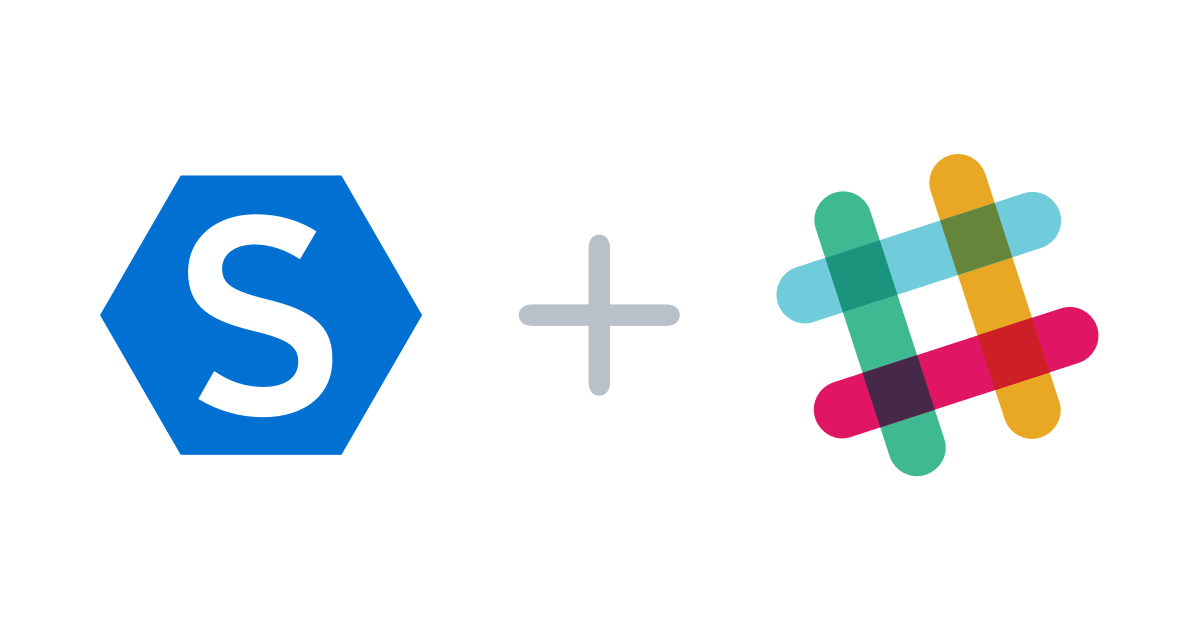
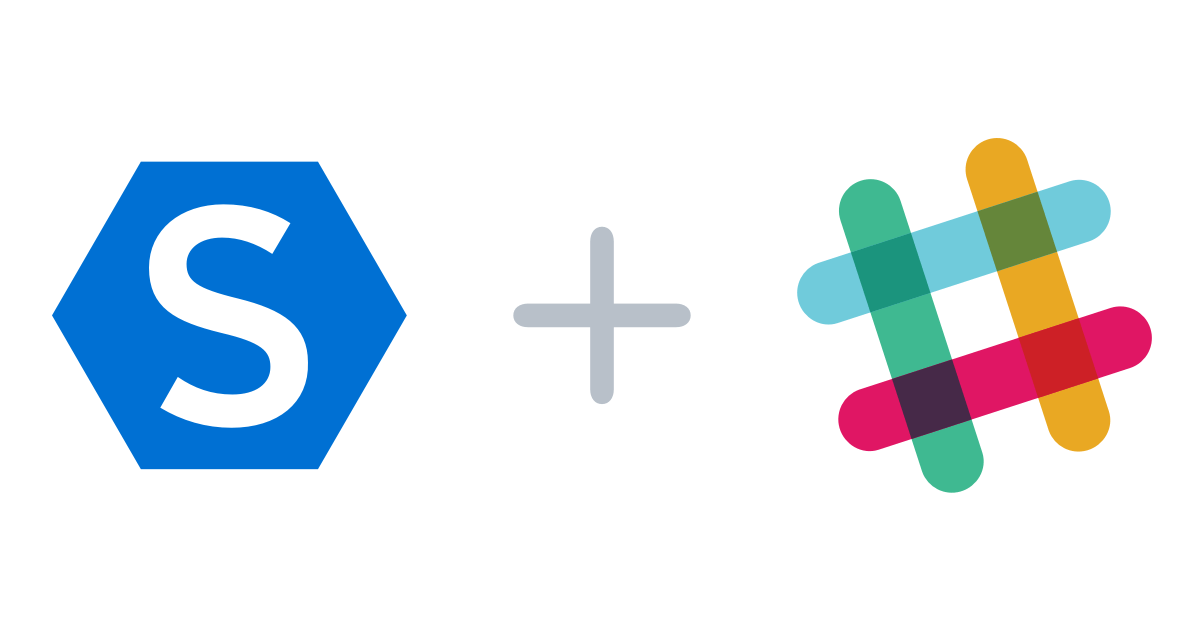
[WEB-420] Add images to social cards

diff --git a/static/slack-invite/index.html b/static/slack-invite/index.html
@@ -4,7 +4,7 @@
   <meta charset="utf-8">
   <meta name="viewport" content="initial-scale=1.0, user-scalable=no">
   <title>Get your Syncano Slack community invite</title>
-  <meta name="description" content="Join the Syncano community and chat with other developers. Share ideas, learn, build together or ask us anything!" />
+  <meta name="description" content="Join the Syncano community and chat with other developers. Share ideas, learn, build together or ask us anything!">
 
   <link rel="stylesheet" href="https://cdn.jsdelivr.net/normalize/3.0.3/normalize.min.css">
   <link rel="stylesheet" href="https://fonts.googleapis.com/css?family=Roboto:400,700">
@@ -168,17 +168,17 @@
   <link rel="icon" type="image/png" href="./img/favicon-96x96.png" sizes="96x96">
   <link rel="icon" type="image/png" href="./img/favicon-16x16.png" sizes="16x16">
 
-  <meta property="og:image" content="http://www.syncano.io/slack-invite/img/og-image.png" />
-  <meta property="og:title" content="Get your Syncano Slack community invite" />
-  <meta property="og:url" content="http://www.syncano.io/slack-invite/" />
-  <meta property="og:site_name" content="Get your Syncano Slack community invite" />
-  <meta property="og:type" content="website" />
+  <meta property="og:image" content="http://www.syncano.io/slack-invite/img/og-image.png">
+  <meta property="og:title" content="Get your Syncano Slack community invite">
+  <meta property="og:url" content="http://www.syncano.io/slack-invite/">
+  <meta property="og:site_name" content="Get your Syncano Slack community invite">
+  <meta property="og:type" content="website">
 
-  <meta name="twitter:card" content="summary" />
-  <meta name="twitter:site" content="@syncano" />
-  <meta name="twitter:title" content="Get your Syncano Slack community invite" />
-  <meta name="twitter:description" content="Join the Syncano community and chat with other developers. Share ideas, learn, build together or ask us anything!" />
-  <meta name="twitter:image" content="http://www.syncano.io/slack-invite/img/twitter-image.png" />
+  <meta name="twitter:card" content="summary_large_image">
+  <meta name="twitter:site" content="@Syncano">
+  <meta name="twitter:title" content="Get your Syncano Slack community invite">
+  <meta name="twitter:description" content="Join the Syncano community and chat with other developers. Share ideas, learn, build together or ask us anything!">
+  <meta name="twitter:image" content="http://www.syncano.io/slack-invite/img/twitter-image.png">
   
   <script type="text/javascript">
     !function(){var analytics=window.analytics=window.analytics||[];if(!analytics.initialize)if(analytics.invoked)window.console&&console.error&&console.error("Segment snippet included twice.");else{analytics.invoked=!0;analytics.methods=["trackSubmit","trackClick","trackLink","trackForm","pageview","identify","reset","group","track","ready","alias","page","once","off","on"];analytics.factory=function(t){return function(){var e=Array.prototype.slice.call(arguments);e.unshift(t);analytics.push(e);return analytics}};for(var t=0;t<analytics.methods.length;t++){var e=analytics.methods[t];analytics[e]=analytics.factory(e)}analytics.load=function(t){var e=document.createElement("script");e.type="text/javascript";e.async=!0;e.src=("https:"===document.location.protocol?"https://":"http://")+"cdn.segment.com/analytics.js/v1/"+t+"/analytics.min.js";var n=document.getElementsByTagName("script")[0];n.parentNode.insertBefore(e,n)};analytics.SNIPPET_VERSION="3.1.0";

diff --git a/html.js b/html.js
@@ -8,7 +8,6 @@ export default React.createClass({
   render() {
     const head = Helmet.rewind();
     const attrs = head.htmlAttributes.toComponent();
-    const { redirect_uri } = APP_CONFIG;
 
     let css;
     if (process.env.NODE_ENV !== 'development') {
@@ -51,13 +50,11 @@ export default React.createClass({
           <meta name="theme-color" content="#0070D3" />
           <meta name="msapplication-navbutton-color" content="#0070D3" />
 
-          <meta property="og:image" content={`${redirect_uri}${require('./images/og-image.png')}`} />
           <meta property="og:site_name" content="Syncano" />
           <meta property="og:type" content="website" />
 
-          <meta name="twitter:card" content="summary" />
-          <meta name="twitter:site" content="@syncano" />
-          <meta name="twitter:image" content={`${redirect_uri}${require('./images/twitter-image.png')}`} />
+          <meta name="twitter:card" content="summary_large_image" />
+          <meta name="twitter:site" content="@Syncano" />
 
           {head.link.toComponent()}
           <script src="https://cdn.optimizely.com/js/3962180131.js"></script>

diff --git a/components/PageHelmet.js b/components/PageHelmet.js
@@ -1,7 +1,7 @@
 import React from 'react';
 import Helmet from 'react-helmet';
 
-const PageHelmet = ({ title, mixpanelTitle, description }, { location }) => {
+const PageHelmet = ({ title, mixpanelTitle, description, ogImageSrc, twitterImageSrc }, { location }) => {
   const { pathname } = location;
 
   return (
@@ -25,12 +25,20 @@ const PageHelmet = ({ title, mixpanelTitle, description }, { location }) => {
           content: `http://www.syncano.io${pathname}`
         },
         {
+          name: 'og:image',
+          content: ogImageSrc
+        },
+        {
           name: 'twitter:title',
           content: title
         },
         {
           name: 'twitter:description',
           content: description
+        },
+        {
+          name: 'twitter:image',
+          content: twitterImageSrc
         }
       ]}
     />

diff --git a/pages/index.js b/pages/index.js
@@ -15,6 +15,8 @@ import {
 } from '../components';
 
 const Homepage = (props, { modals }) => {
+  const { redirect_uri } = APP_CONFIG;
+
   return (
     <div>
       <PageHelmet
@@ -22,6 +24,8 @@ const Homepage = (props, { modals }) => {
         mixpanelTitle="Home"
         description={`A platform for building serverless apps. Increase productivity, focus on new features, and scale
           to millions of users without managing servers. Get started for free!`}
+        ogImageSrc={`${redirect_uri}${require('./home/og-image.png')}`}
+        twitterImageSrc={`${redirect_uri}${require('./home/twitter-image.png')}`}
       />
       <Hero
         headline={<span>Build powerful apps<br />in half the time</span>}

diff --git a/pages/contact/index.js b/pages/contact/index.js
@@ -2,12 +2,16 @@ import React from 'react';
 import { ContactForm, CTASection, Footer, OfficeAddresses, PageHeader, PageHelmet } from '../../components';
 
 export default () => {
+  const { redirect_uri } = APP_CONFIG;
+
   return (
     <div>
       <PageHelmet
         title="Get in touch with us | Syncano"
         mixpanelTitle="Contact Us"
         description="Get in touch with us, write your feedback or just say hi! Use the form or just drop us an email."
+        ogImageSrc={`${redirect_uri}${require('./og-image.png')}`}
+        twitterImageSrc={`${redirect_uri}${require('./twitter-image.png')}`}
       />
       <PageHeader
         headline="Get in touch with us"

diff --git a/pages/about/index.js b/pages/about/index.js
@@ -12,6 +12,8 @@ import {
 } from '../../components';
 
 export default () => {
+  const { redirect_uri } = APP_CONFIG;
+
   return (
     <div>
       <PageHelmet
@@ -19,6 +21,8 @@ export default () => {
         mixpanelTitle="About Us"
         description={`Changing the way the world thinks about app development. We want to help developers focus on
           strategic initiatives, and not worry about heavy lifting.`}
+        ogImageSrc={`${redirect_uri}${require('./og-image.png')}`}
+        twitterImageSrc={`${redirect_uri}${require('./twitter-image.png')}`}
       />
       <PageHeader headline="We help developers build amazing apps" />
       <AboutUsHeaderImage

diff --git a/pages/pricing/index.js b/pages/pricing/index.js
@@ -13,6 +13,8 @@ import {
 } from '../../components';
 
 export default () => {
+  const { redirect_uri } = APP_CONFIG;
+
   return (
     <div>
       <PageHelmet
@@ -20,6 +22,8 @@ export default () => {
         mixpanelTitle="Pricing"
         description={`Get started with Syncano for free and scale to millions of users. Upgrade, downgrade or cancel at
           any time. 30 day money back guarantee. Read more...`}
+        ogImageSrc={`${redirect_uri}${require('./og-image.png')}`}
+        twitterImageSrc={`${redirect_uri}${require('./twitter-image.png')}`}
       />
       <PageHeader
         headline="Build secure, scalable apps in half the time"

diff --git a/pages/help/index.js b/pages/help/index.js
@@ -11,6 +11,8 @@ import {
 } from '../../components';
 
 export default () => {
+  const { redirect_uri } = APP_CONFIG;
+
   return (
     <div>
       <PageHelmet
@@ -18,6 +20,8 @@ export default () => {
         mixpanelTitle="Help & Status"
         description={`Learn the basics of how to get up and running on Syncano. Get answers to your questions. Join us
           on Slack, read tutorials or simply fork our open source code.`}
+        ogImageSrc={`${redirect_uri}${require('./og-image.png')}`}
+        twitterImageSrc={`${redirect_uri}${require('./twitter-image.png')}`}
       />
       <StatusPageHeader />
       <TextWithImage

diff --git a/pages/features/index.js b/pages/features/index.js
@@ -14,6 +14,8 @@ import {
 } from '../../components';
 
 export default () => {
+  const { redirect_uri } = APP_CONFIG;
+
   return (
     <div>
       <PageHelmet
@@ -21,6 +23,8 @@ export default () => {
         mixpanelTitle="Features"
         description={`Rapidly assemble building blocks for your app without a backend or server. Learn more about what
           you can do with Syncano.`}
+        ogImageSrc={`${redirect_uri}${require('./og-image.png')}`}
+        twitterImageSrc={`${redirect_uri}${require('./twitter-image.png')}`}
       />
       <PageHeader
         headline="Features"
